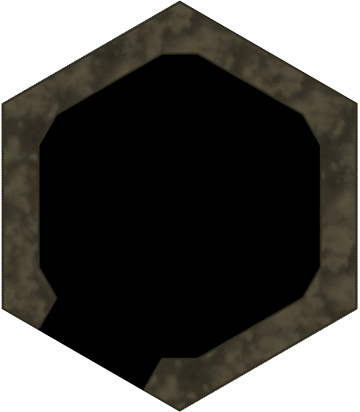
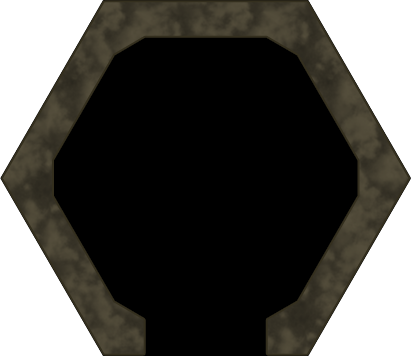
Flat Topped Hexes

Changed region(s): [[0.0, 0.0, 1.0, 1.0]]

diff --git a/src/dg/gui/BoardPanel.java b/src/dg/gui/BoardPanel.java
@@ -37,7 +37,7 @@ public class BoardPanel extends JPanel {
 	
 	private static final Stroke MOUSEOVER_STROKE = new BasicStroke(1);
 //	private static final Stroke SELECTION_STROKE = new BasicStroke(3);
-	private static final Stroke GRID_STROKE = new BasicStroke(0.3f);
+	private static final Stroke GRID_STROKE = new BasicStroke(1);
 	private static final Stroke DEBUG_PATHFINDING_STROKE = new BasicStroke(3);
 	
 	private static BoardPanel instance = null;
@@ -99,16 +99,11 @@ public class BoardPanel extends JPanel {
 				g2.setClip(hex);
 				double r = Shapes.HEX_RADIUS;
 				double h = GUIUtils.getTriangleHeight(Shapes.HEX_RADIUS);
-				g2.drawImage(image, (int) -h - 1, (int) -r - 1, (int) (2 * h) + 2, (int) (2 * r) + 2, null);
+				g2.drawImage(image, (int) -r - 1, (int) -h - 1, (int) (2 * r) + 2, (int) (2 * h) + 2, null);
 				g2.setTransform(new AffineTransform());
 				g2.setClip(null);
 			}
 
-			// grid
-			g2.setColor(Colors.GRID);
-			g2.setStroke(GRID_STROKE);
-			g2.draw(hexTransform.createTransformedShape(hex));
-			
 			if (DRAW_TEXTS) {
 				AffineTransform textTransform = getHexTextTransform(hexOffset);
 				g2.setTransform(textTransform);
@@ -122,6 +117,18 @@ public class BoardPanel extends JPanel {
 			}
 		}
 
+		for (Coordinates c : grid.keySet()) {
+			Point2D hexOffset = GUIUtils.getHexOffset(c);
+			AffineTransform hexTransform = getHexTransform(c, hexOffset);
+			
+			// grid
+			if (GameState.getBoard().getTerrain(c) == Terrain.WALL) {
+				g2.setColor(Colors.GRID);
+				g2.setStroke(GRID_STROKE);
+				g2.draw(hexTransform.createTransformedShape(hex));
+			}
+		}
+		
 		// mouseover
 		if (Selection.isSelectionMode()) {
 			Coordinates c = GameState.getMouseoverCoordinates();
@@ -206,7 +213,9 @@ public class BoardPanel extends JPanel {
 		hexTransform.translate(translateX, translateY);
 		hexTransform.scale(scale, scale);
 		hexTransform.translate(hexOffset.getX(), hexOffset.getY());
-		hexTransform.rotate(GUIUtils.getWallRotation(c) * (2 * Math.PI / 6));
+		if (GameState.getBoard().getTerrain(c) == Terrain.WALL) {
+			hexTransform.rotate((GUIUtils.getWallRotation(c)) * (2 * Math.PI / 6));
+		}
 		return hexTransform;
 	}
 	

diff --git a/src/dg/gui/GUIUtils.java b/src/dg/gui/GUIUtils.java
@@ -52,7 +52,7 @@ public class GUIUtils {
 			return 0;
 		}
 		
-		return i * d;
+		return (i + 1) * d;
 	}
 	
 	/**
@@ -68,10 +68,10 @@ public class GUIUtils {
 	public static Point2D getHexOffset(Coordinates c) {
 		double r = Shapes.HEX_RADIUS;
 		double h = GUIUtils.getTriangleHeight(r);
-		double dqx = 2 * h;
-		double dqy = 0;
-		double drx = h;
-		double dry = r + r / 2;
+		double dqx = r + r / 2;
+		double dqy = h;
+		double drx = 0;
+		double dry = 2 * h;
 		
 		double tx = c.r * drx + c.q * dqx;
 		double ty = c.r * dry + c.q * dqy;
@@ -105,6 +105,8 @@ public class GUIUtils {
 			wallString = wallString.substring(1) + wallString.charAt(0);
 		}
 
+		rotation++;
+		
 		rotationCache.put(coords, rotation);
 		return rotation;
 	}

diff --git a/src/dg/gui/Colors.java b/src/dg/gui/Colors.java
@@ -8,7 +8,7 @@ public class Colors {
 	
 	public static final Color HEX_MOUSEOVER = Color.white;
 	public static final Color HEX_SELECTION = Color.orange;
-	public static final Color AGENT_VIEW_DIRECTION_POINTER = new Color(1f, 1f, 1f, 0.5f);
+	public static final Color AGENT_VIEW_DIRECTION_POINTER = new Color(1f, 1f, 1f, 0.75f);
 	
 	public static final Color MENU_BACKGROUND = Color.gray;
 	public static final Color MENU_BUTTON_BACKGROUND = Color.darkGray;

diff --git a/src/dg/gui/Shapes.java b/src/dg/gui/Shapes.java
@@ -74,7 +74,7 @@ public class Shapes {
 	}
 	
 	private static Point2D hexCorner(Point2D center, double size, int i) {
-	    double angle_deg = 60 * i + 30;
+	    double angle_deg = 60 * i;
 	    double angle_rad = Math.PI / 180 * angle_deg;
 	    return new Point2D.Double(center.getX() + size * Math.cos(angle_rad), center.getY() + size * Math.sin(angle_rad));
 	}
